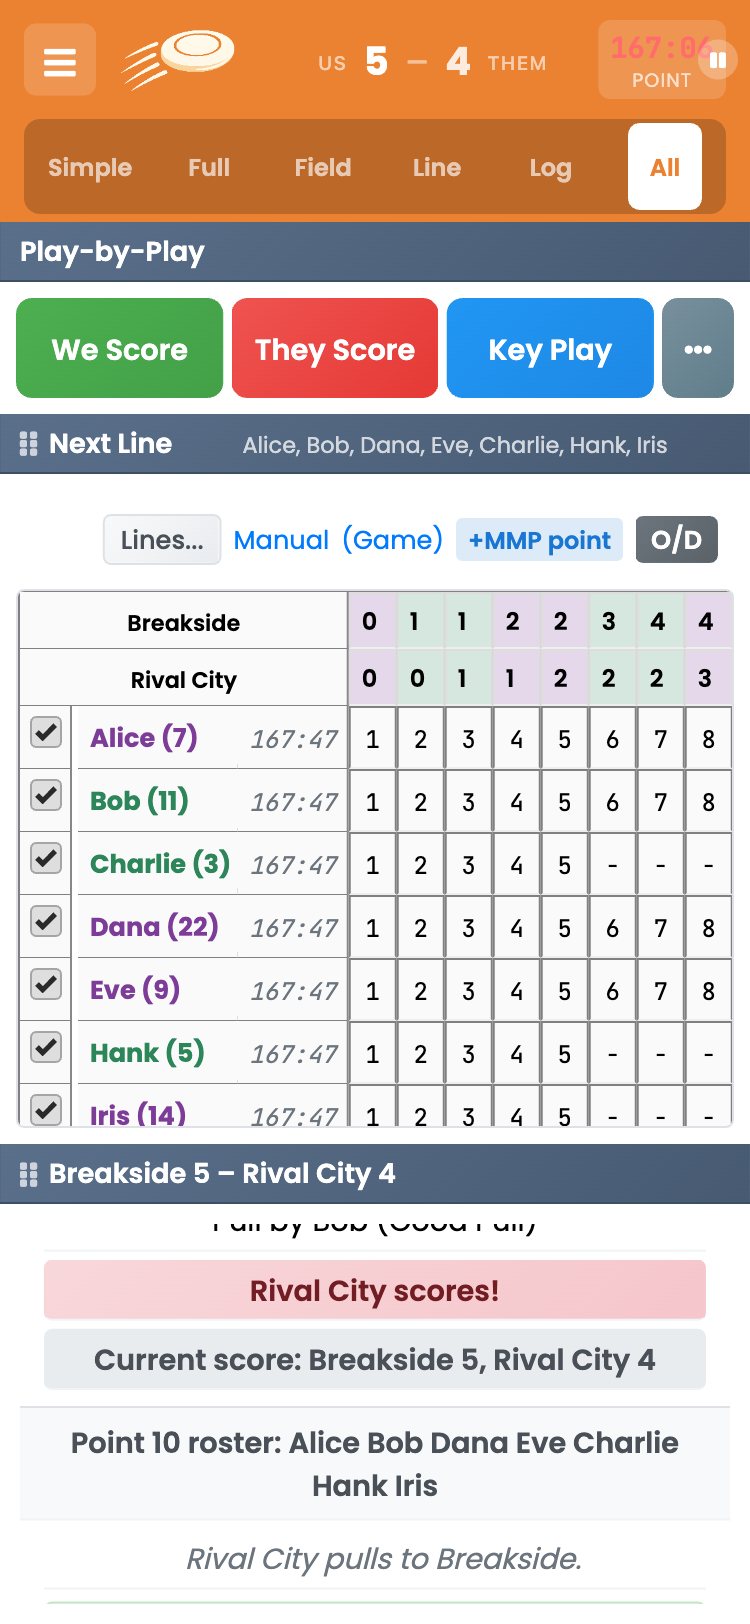
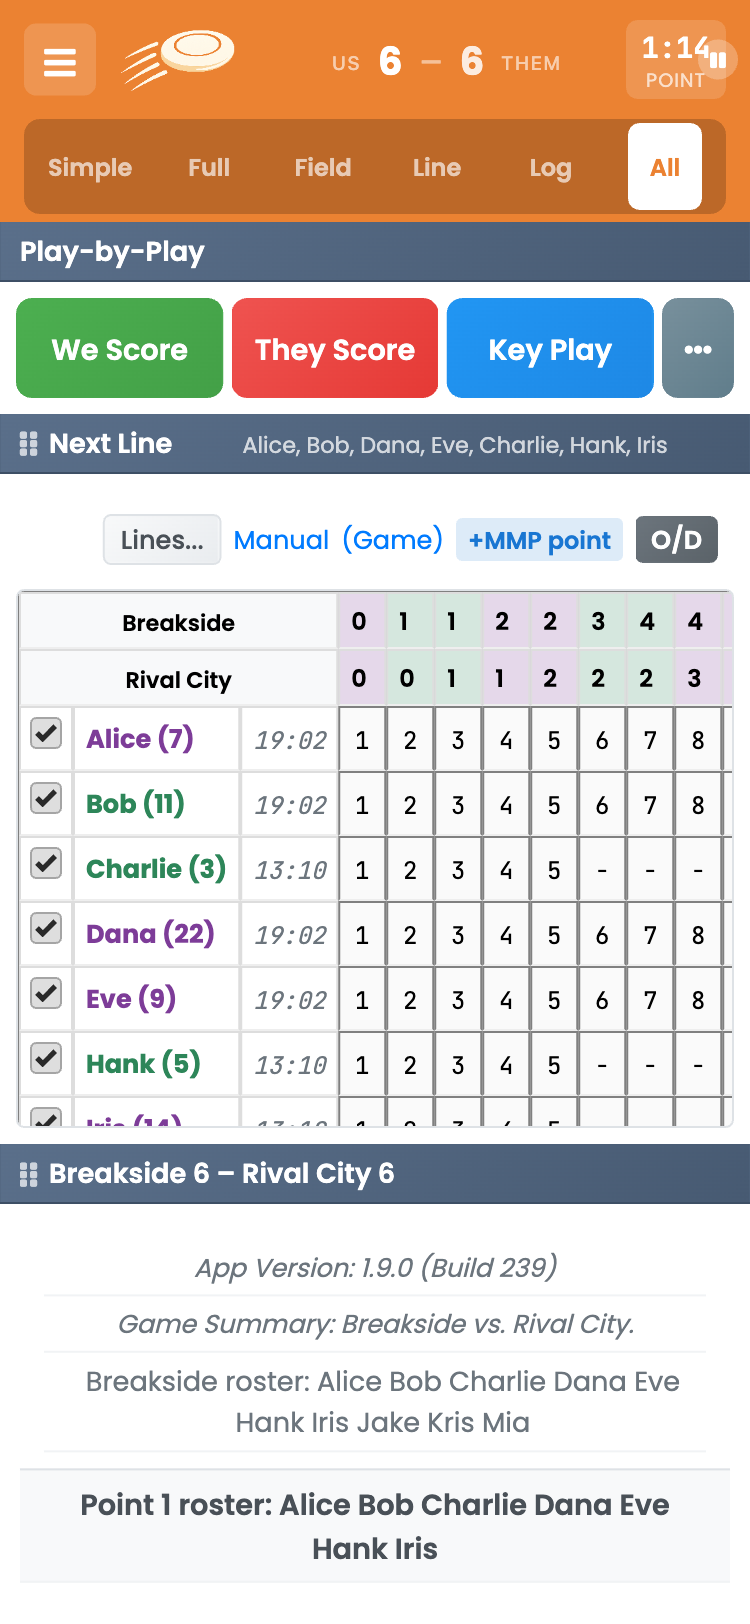
landing: hero copy + re-shoot 5 carousel slides with clean timers
- Hero: 'Every point. Every player. / Or even every throw.'
- Re-capture simple, full, field, line, all from one consistent game
  (Breakside 6-6 Rival City) with a tidy point-timer and realistic
  per-player playing times (was a runaway mid-session elapsed value).
- field slide now shows a disc placed on the field.
- simple-score and field-landscape unchanged (no visible timer).

diff --git a/landing/index.html b/landing/index.html
@@ -43,8 +43,8 @@
         <div class="hero-content">
             <div class="hero-text">
                 <h1 class="hero-title">
-                    From time &amp; score, to every throw.<br>
-                    <span class="hero-highlight">Your level of detail.</span>
+                    Every point. Every player.<br>
+                    <span class="hero-highlight">Or even every throw.</span>
                 </h1>
                 <p class="hero-subtitle">
                     Stats that scale with you: two taps to keep score, or place every throw,

diff --git a/landing/screens/README.md b/landing/screens/README.md
@@ -21,7 +21,6 @@ array in [`../hero-carousel.js`](../hero-carousel.js):
 | `line`            | line.png              | Line tab (roster, score progression, points-played)      |
 | `all`             | all.png               | All tab — combined PBP + Next Line + Game Log            |
 
-Note: these were captured mid-session, so the live point-timer in the header
-corner shows a large elapsed value on a few shots — re-capture from a fresh point
-if you want it tidy. The standalone `../game-screenshot.png` is the old hero image,
-no longer referenced.
+All shots are from one consistent game (Breakside 6 – Rival City 6) with a tidy
+point-timer. The standalone `../game-screenshot.png` is the old hero image, no
+longer referenced.
